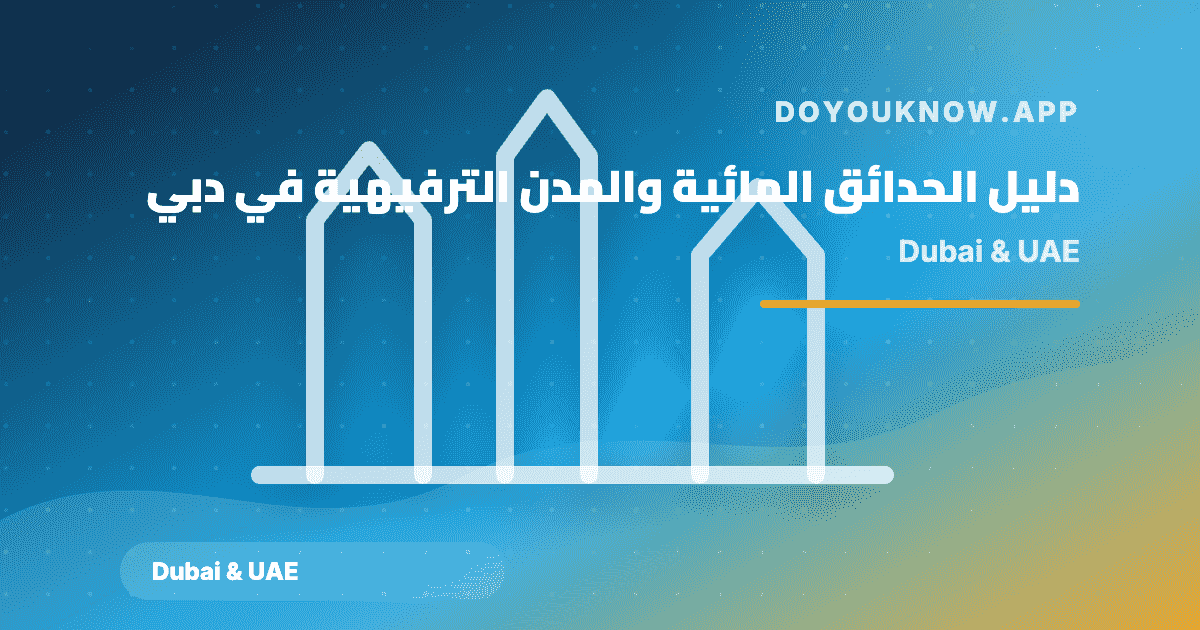
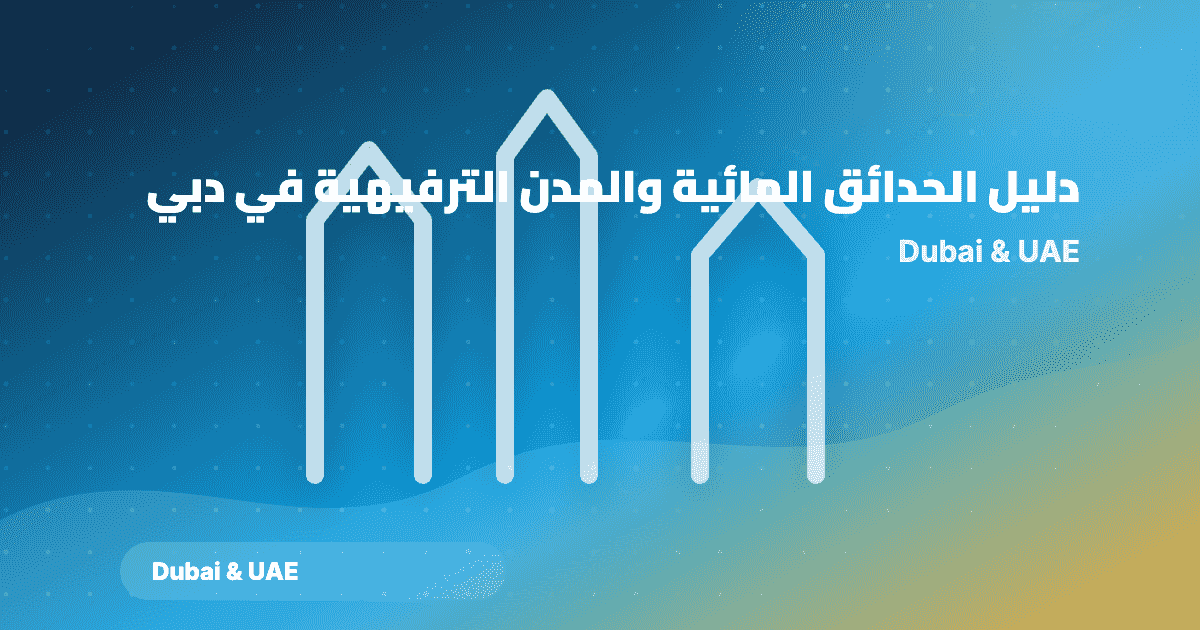
Rebuild Saudi guides batch 3 after T56 rebase
Regenerate category/search/service-worker artifacts after rebasing T54 onto the Technology Explained batch. npm run build and npm test pass at 343 HTML pages; T54 pages remain noindex, follow pending source-review release.

diff --git a/ar/article/qobool-guide.html b/ar/article/qobool-guide.html
@@ -15,13 +15,13 @@
 <meta property="og:description" content="دليل مبسط لاستخدام منصة قبول في السعودية، من إنشاء الحساب وترتيب الرغبات إلى متابعة الطلب والتحقق من أحدث التعليمات الرسمية.">
 <meta property="og:type" content="article">
 <meta property="og:url" content="https://doyouknow.app/ar/article/qobool-guide.html">
-<meta property="og:image" content="https://doyouknow.app/assets/images/articles/ar-qobool-guide.svg">
+<meta property="og:image" content="https://doyouknow.app/assets/images/articles/ar-qobool-guide.png">
 <meta property="og:locale" content="ar_SA">
 <meta property="og:site_name" content="doyouknow.app">
 <meta name="twitter:card" content="summary_large_image">
 <meta name="twitter:title" content="دليل قبول: التقديم ومتابعة القبول الجامعي">
 <meta name="twitter:description" content="دليل مبسط لاستخدام منصة قبول في السعودية، من إنشاء الحساب وترتيب الرغبات إلى متابعة الطلب والتحقق من أحدث التعليمات الرسمية.">
-<meta name="twitter:image" content="https://doyouknow.app/assets/images/articles/ar-qobool-guide.svg">
+<meta name="twitter:image" content="https://doyouknow.app/assets/images/articles/ar-qobool-guide.png">
 <title>دليل قبول: التقديم ومتابعة القبول الجامعي | doyouknow.app</title>
 <link rel="dns-prefetch" href="https://www.googletagmanager.com">
 <link rel="preload" href="/assets/js/site.js" as="script">
@@ -45,7 +45,7 @@
 <link rel="alternate" type="application/rss+xml" title="RSS" href="/ar/rss.xml">
 <link rel="alternate" type="application/json" title="JSON Feed" href="/ar/feed.json">
 
-<script type="application/ld+json">{"@context":"https://schema.org","@type":"Article","headline":"دليل قبول: التقديم ومتابعة القبول الجامعي","description":"دليل مبسط لاستخدام منصة قبول في السعودية، من إنشاء الحساب وترتيب الرغبات إلى متابعة الطلب والتحقق من أحدث التعليمات الرسمية.","author":{"@type":"Organization","name":"doyouknow.app Editorial Team","url":"https://doyouknow.app/ar/about.html","sameAs":["https://instagram.com/doyouknowapp","https://twitter.com/doyouknowapp"]},"publisher":{"@type":"Organization","name":"doyouknow.app","logo":{"@type":"ImageObject","url":"https://doyouknow.app/assets/images/logo.png"}},"datePublished":"2026-07-08","dateModified":"2026-07-08","mainEntityOfPage":{"@type":"WebPage","@id":"https://doyouknow.app/ar/article/qobool-guide.html"},"articleSection":"أدلة عملية في السعودية","keywords":"أبشر, أحدث, أفعل, أيضا, إنشاء, احصل, اختياره, استخدم, اشترك, الأسئلة, الأساسية, الأمر, البحث, البريدية, التأكيد, التخصص, التخصصات, التسجيل, التعليمات, الجامعات, الحساب, الحقائق, الخطوة, الدخول, الرسمية, الرغبات, السعودية, الشائعة, الشخصي, الشروط, الطلب, القبول, المحتويات, المذهلة, المزيد, المشاكل, الملف, الناجح, بخطوة, بدون, تأكيد, تخصصا, تستخدم, تسجيل, تعلن, تغيير, تفعل, تفعيل, تقديم, جدول, جديد, جميع, حساب, خطوة, دليل, رفضت, فترة, قبول, كيف, لأول, لاستخدام, للتسجيل, للمدارس, ماذا, مبسط, متابعة, متى, مثل, مجانية, مرة, مصادر, مفيدة, منصة, نتائج, نشرتنا, نصائح, والتحقق, والجامعات, والنتائج, وتحديث, وترتيب, وحلولها, وروابط, ولي, يعجبك, يمكن, يمكنني","wordCount":2110,"articleBody":"كيف تستخدم منصة قبول؟ دليل خطوة بخطوة\nملاحظة تحريرية: تم التحقق من هذا الدليل باستخدام منصة قبول الجامعية (uap.sa) في 2026-07-08. مواعيد القبول والشروط تتغير كل عام، لذا تحقق دائماً من التعليمات الرسمية الحالية. مستوى الثقة: عالٍ.\nمنصة قبول هي البوابة الإلكترونية الموحدة التي تستخدمها وزارة التعليم ","inLanguage":"ar","image":{"@type":"ImageObject","url":"https://doyouknow.app/assets/images/articles/ar-qobool-guide.svg","width":1200,"height":675}}</script>
+<script type="application/ld+json">{"@context":"https://schema.org","@type":"Article","headline":"دليل قبول: التقديم ومتابعة القبول الجامعي","description":"دليل مبسط لاستخدام منصة قبول في السعودية، من إنشاء الحساب وترتيب الرغبات إلى متابعة الطلب والتحقق من أحدث التعليمات الرسمية.","author":{"@type":"Organization","name":"doyouknow.app Editorial Team","url":"https://doyouknow.app/ar/about.html","sameAs":["https://instagram.com/doyouknowapp","https://twitter.com/doyouknowapp"]},"publisher":{"@type":"Organization","name":"doyouknow.app","logo":{"@type":"ImageObject","url":"https://doyouknow.app/assets/images/logo.png"}},"datePublished":"2026-07-08","dateModified":"2026-07-08","mainEntityOfPage":{"@type":"WebPage","@id":"https://doyouknow.app/ar/article/qobool-guide.html"},"articleSection":"أدلة عملية في السعودية","keywords":"أبشر, أحدث, أفعل, أيضا, إنشاء, احصل, اختياره, استخدم, اشترك, الأسئلة, الأساسية, الأمر, البحث, البريدية, التأكيد, التخصص, التخصصات, التسجيل, التعليمات, الجامعات, الحساب, الحقائق, الخطوة, الدخول, الرسمية, الرغبات, السعودية, الشائعة, الشخصي, الشروط, الطلب, القبول, المحتويات, المذهلة, المزيد, المشاكل, الملف, الناجح, بخطوة, بدون, تأكيد, تخصصا, تستخدم, تسجيل, تعلن, تغيير, تفعل, تفعيل, تقديم, جدول, جديد, جميع, حساب, خطوة, دليل, رفضت, فترة, قبول, كيف, لأول, لاستخدام, للتسجيل, للمدارس, ماذا, مبسط, متابعة, متى, مثل, مجانية, مرة, مصادر, مفيدة, منصة, نتائج, نشرتنا, نصائح, والتحقق, والجامعات, والنتائج, وتحديث, وترتيب, وحلولها, وروابط, ولي, يعجبك, يمكن, يمكنني","wordCount":2110,"articleBody":"كيف تستخدم منصة قبول؟ دليل خطوة بخطوة\nملاحظة تحريرية: تم التحقق من هذا الدليل باستخدام منصة قبول الجامعية (uap.sa) في 2026-07-08. مواعيد القبول والشروط تتغير كل عام، لذا تحقق دائماً من التعليمات الرسمية الحالية. مستوى الثقة: عالٍ.\nمنصة قبول هي البوابة الإلكترونية الموحدة التي تستخدمها وزارة التعليم ","inLanguage":"ar","image":{"@type":"ImageObject","url":"https://doyouknow.app/assets/images/articles/ar-qobool-guide.png","width":1200,"height":630}}</script>
 </head>
 <body>
 <a href="#main-content" class="skip-link">انتقل إلى المحتوى</a>

diff --git a/ar/category/guides.html b/ar/category/guides.html
@@ -9,4 +9,4 @@
   gtag('js', new Date());
 
   gtag('config', 'G-6VQZY87LJB');
-</script><link rel="alternate" type="application/rss+xml" title="RSS" href="/ar/rss.xml"><link rel="alternate" type="application/json" title="JSON Feed" href="/ar/feed.json"></head><body><a href="#main-content" class="skip-link">انتقل إلى المحتوى</a><header class="site-header"><div class="header-inner"><a href="/ar/" class="logo" aria-label="doyouknow.app"><span class="logo-text">doyouknow<span class="accent">.app</span></span></a><nav class="main-nav" aria-label="التنقل الرئيسي"><ul class="nav-links"><li><a href="/ar/">الرئيسية</a></li><li><a href="/ar/">كل المقالات</a></li><li><a href="/en/">English</a></li></ul></nav></div></header><main id="main-content"><section class="content-section"><p class="category-badge">doyouknow.app</p><h1>أدلة عملية في السعودية</h1><p class="hero-subtitle" style="margin-inline:0">أدلة عربية مبسطة للخدمات والمنصات والإجراءات المهمة في السعودية مع إحالات إلى المصادر الرسمية.</p><div class="article-grid"><a href="/ar/article/absher-portal-guide.html" class="article-card reveal reveal-delay-1"><img class="card-image" src="/assets/images/articles/ar-absher-portal-guide.svg" alt="" width="800" height="450" loading="eager" fetchpriority="high" decoding="async"><div class="card-content"><span class="category-badge">أدلة عملية في السعودية</span><h2 class="card-title">كيف تستخدم منصة أبشر: دليل شامل للمقيمين</h2><p class="card-excerpt">دليل عملي لاستخدام منصة أبشر السعودية. التسجيل، تسجيل الدخول، أهم الخدمات، والمشاكل الشائعة وكيفية حلها.</p></div></a><a href="/ar/article/best-restaurants-riyadh.html" class="article-card reveal reveal-delay-2"><img class="card-image" src="/assets/images/articles/ar-best-restaurants-riyadh.svg" alt="" width="800" height="450" loading="eager" fetchpriority="high" decoding="async"><div class="card-content"><span class="category-badge">أدلة عملية في السعودية</span><h2 class="card-title">أفضل المطاعم في الرياض: دليلك الشامل لتجربة طعام لا تُنسى</h2><p class="card-excerpt">اكتشف أفضل المطاعم الرياض من الأكلات الشعبية إلى المطاعم الفاخرة. دليل شامل لأحسن مطاعم الرياض للزوار والمقيمين.</p></div></a><a href="/ar/article/dewa-setup-guide.html" class="article-card reveal reveal-delay-3"><img class="card-image" src="/assets/images/articles/ar-dewa-setup-guide.svg" alt="" width="800" height="450" loading="eager" fetchpriority="high" decoding="async"><div class="card-content"><span class="category-badge">أدلة عملية في السعودية</span><h2 class="card-title">تفعيل ديوا والفواتير عند الانتقال إلى منزل في دبي</h2><p class="card-excerpt">دليل تفعيل هيئة كهرباء ومياه دبي عند الانتقال: الوديعة، الفاتورة الخضراء، التعرفة، إيجاري، الفاتورة النهائية، وتخطيط المصروف الشهري.</p></div></a><a href="/ar/article/du-etisalat-sim-guide.html" class="article-card reveal reveal-delay-1"><img class="card-image" src="/assets/images/articles/ar-du-etisalat-sim-guide.svg" alt="" width="800" height="450" loading="lazy" decoding="async"><div class="card-content"><span class="category-badge">أدلة عملية في السعودية</span><h2 class="card-title">دو أم اتصالات: شرائح الهاتف وباقات الموبايل في الإمارات</h2><p class="card-excerpt">دليل للمقيمين والزوار حول شرائح الهاتف في الإمارات: دو واتصالات/e&amp;amp;، الدفع المسبق، eSIM، شرائح السياح، التسجيل، ومقارنة الباقات.</p></div></a><a href="/ar/article/dubai-traffic-fines-guide.html" class="article-card reveal reveal-delay-2"><img class="card-image" src="/assets/images/articles/ar-dubai-traffic-fines-guide.svg" alt="" width="800" height="450" loading="lazy" decoding="async"><div class="card-content"><span class="category-badge">أدلة عملية في السعودية</span><h2 class="card-title">مخالفات دبي المرورية: الاستعلام والدفع والنقاط السوداء</h2><p class="card-excerpt">دليل للمقيمين حول الاستعلام عن مخالفات دبي المرورية ودفعها عبر القنوات الرسمية وفهم النقاط السوداء والحجز وتجنب التكرار.</p></div></a><a href="/ar/article/emirates-id-guide.html" class="article-card reveal reveal-delay-3"><img class="card-image" src="/assets/images/articles/ar-emirates-id-guide.svg" alt="" width="800" height="450" loading="lazy" decoding="async"><div class="card-content"><span class="category-badge">أدلة عملية في السعودية</span><h2 class="card-title">هوية الإمارات: التقديم والتجديد وبدل الفاقد</h2><p class="card-excerpt">دليل عملي لهوية الإمارات يشرح التقديم عبر الهيئة، التجديد، بدل الفاقد، مراكز الطباعة، التسليم، وغرامات التأخير.</p></div></a><a href="/ar/article/open-bank-account-saudi.html" class="article-card reveal reveal-delay-1"><img class="card-image" src="/assets/images/articles/ar-open-bank-account-saudi.svg" alt="" width="800" height="450" loading="lazy" decoding="async"><div class="card-content"><span class="category-badge">أدلة عملية في السعودية</span><h2 class="card-title">كيف تفتح حساباً بنكياً في السعودية: دليل عملي خطوة بخطوة</h2><p class="card-excerpt">دليل عملي لفتح حساب بنكي في السعودية للمقيمين والأجانب. ما هي البنوك المتاحة، الوثائق المطلوبة، المدة، والأخطاء الشائعة.</p></div></a><a href="/ar/article/qiyas-guide.html" class="article-card reveal reveal-delay-2"><img class="card-image" src="/assets/images/articles/ar-qiyas-guide.svg" alt="" width="800" height="450" loading="lazy" decoding="async"><div class="card-content"><span class="category-badge">أدلة عملية في السعودية</span><h2 class="card-title">كيف تستخدم منصة قياس: دليل خطوة بخطوة للطلاب والمهنيين</h2><p class="card-excerpt">دليل عملي لاستخدام منصة قياس السعودية. التسجيل، أنواع الاختبارات، حجز المواعيد، التحضير، وتفسير النتائج.</p></div></a><a href="/ar/article/qobool-guide.html" class="article-card reveal reveal-delay-3"><img class="card-image" src="/assets/images/articles/ar-qobool-guide.svg" alt="" width="800" height="450" loading="lazy" decoding="async"><div class="card-content"><span class="category-badge">أدلة عملية في السعودية</span><h2 class="card-title">دليل قبول: التقديم ومتابعة القبول الجامعي</h2><p class="card-excerpt">دليل مبسط لاستخدام منصة قبول في السعودية، من إنشاء الحساب وترتيب الرغبات إلى متابعة الطلب والتحقق من أحدث التعليمات الرسمية.</p></div></a><a href="/ar/article/renting-apartment-dubai.html" class="article-card reveal reveal-delay-1"><img class="card-image" src="/assets/images/articles/ar-renting-apartment-dubai.svg" alt="" width="800" height="450" loading="lazy" decoding="async"><div class="card-content"><span class="category-badge">أدلة عملية في السعودية</span><h2 class="card-title">استئجار شقة في دبي: إيجاري وحاسبة الزيادة والشيكات</h2><p class="card-excerpt">دليل عملي لاستئجار شقة في دبي يشرح إيجاري، العقود، حاسبة الزيادة، الشيكات، الوديعة، الإخطارات، وإجراءات الانتقال.</p></div></a><a href="/ar/article/renting-apartment-riyadh.html" class="article-card reveal reveal-delay-2"><img class="card-image" src="/assets/images/articles/ar-renting-apartment-riyadh.svg" alt="" width="800" height="450" loading="lazy" decoding="async"><div class="card-content"><span class="category-badge">أدلة عملية في السعودية</span><h2 class="card-title">استئجار شقة في الرياض: العقود وإيجار والتكاليف</h2><p class="card-excerpt">دليل شامل للمستأجرين في الرياض: متوسط الإيجارات، الأحياء، عقود إيجار، الودائع، وحقوقك بموجب القانون السعودي.</p></div></a><a href="/ar/article/saudi-driving-license.html" class="article-card reveal reveal-delay-3"><img class="card-image" src="/assets/images/articles/ar-saudi-driving-license.svg" alt="" width="800" height="450" loading="lazy" decoding="async"><div class="card-content"><span class="category-badge">أدلة عملية في السعودية</span><h2 class="card-title">كيف تحصل على رخصة قيادة في السعودية: دليل شامل</h2><p class="card-excerpt">دليل خطوة بخطوة للحصول على رخصة قيادة في السعودية. القواعد الجديدة، رخص النساء، اختبار القيادة، التكلفة، والأخطاء الشائعة.</p></div></a><a href="/ar/article/saudi-e-visa-guide.html" class="article-card reveal reveal-delay-1"><img class="card-image" src="/assets/images/articles/ar-saudi-e-visa-guide.svg" alt="" width="800" height="450" loading="lazy" decoding="async"><div class="card-content"><span class="category-badge">أدلة عملية في السعودية</span><h2 class="card-title">دليل التأشيرة الإلكترونية السعودية: أنواعها والتقديم</h2><p class="card-excerpt">دليل كامل للتأشيرة الإلكترونية السعودية 2026: أنواع التأشيرات، شروط التقديم، الرسوم، مدة المعالجة، تأشيرة العمرة والأعمال، وكل ما يهم المسافر.</p></div></a><a href="/ar/article/saudi-family-visit-visa.html" class="article-card reveal reveal-delay-2"><img class="card-image" src="/assets/images/articles/ar-saudi-family-visit-visa.svg" alt="" width="800" height="450" loading="lazy" decoding="async"><div class="card-content"><span class="category-badge">أدلة عملية في السعودية</span><h2 class="card-title">تأشيرة زيارة العائلة في السعودية: التقديم والتمديد والقواعد</h2><p class="card-excerpt">كيف تتقدم لتأشيرة زيارة عائلة في السعودية، تمددها عبر أبشر، وتفهم القواعد المطبقة على الأباء والأزواج والأطفال.</p></div></a><a href="/ar/article/saudi-health-insurance.html" class="article-card reveal reveal-delay-3"><img class="card-image" src="/assets/images/articles/ar-saudi-health-insurance.svg" alt="" width="800" height="450" loading="lazy" decoding="async"><div class="card-content"><span class="category-badge">أدلة عملية في السعودية</span><h2 class="card-title">التأمين الصحي في السعودية: ما تحتاج معرفته</h2><p class="card-excerpt">دليل شامل للتأمين الصحي في السعودية. المتطلبات الإلزامية، أفضل الشركات، ما يشمله التغطية، وكيف تختار الباقة المناسبة.</p></div></a><a href="/ar/article/saudi-iqama-guide.html" class="article-card reveal reveal-delay-1"><img class="card-image" src="/assets/images/articles/ar-saudi-iqama-guide.svg" alt="" width="800" height="450" loading="lazy" decoding="async"><div class="card-content"><span class="category-badge">أدلة عملية في السعودية</span><h2 class="card-title">الإقامة في السعودية: التجديد والرسوم والتابعين</h2><p class="card-excerpt">دليل شامل حول الإقامة السعودية: كيفية استخراجها وتجديدها ودفع الرسوم وإضافة التابعين وحل المشكلات الشائعة عبر أبشر ومعقِّم.</p></div></a><a href="/ar/article/saudi-mobile-plans-guide.html" class="article-card reveal reveal-delay-2"><img class="card-image" src="/assets/images/articles/ar-saudi-mobile-plans-guide.svg" alt="" width="800" height="450" loading="lazy" decoding="async"><div class="card-content"><span class="category-badge">أدلة عملية في السعودية</span><h2 class="card-title">دليل باقات الجوال في السعودية: مقارنة المشغلين الأربعة</h2><p class="card-excerpt">قارن بين مشغلي الاتصالات في السعودية وباقات الدفع المسبق والآجل والبيانات وتغطية 5G وكيفية الحصول على شريحة كمقيم أو زائر.</p></div></a><a href="/ar/article/saudi-nafath-guide.html" class="article-card reveal reveal-delay-3"><img class="card-image" src="/assets/images/articles/ar-saudi-nafath-guide.svg" alt="" width="800" height="450" loading="lazy" decoding="async"><div class="card-content"><span class="category-badge">أدلة عملية في السعودية</span><h2 class="card-title">منصة نفاذ السعودية: التسجيل والدخول والوصول للخدمات</h2><p class="card-excerpt">دليل عملي حول نفاذ، المنصة الوطنية الموحدة للوصول في السعودية: كيفية التسجيل وتسجيل الدخول وربط الخدمات وحل المشكلات الشائعة.</p></div></a><a href="/ar/article/saudi-sadad-payments.html" class="article-card reveal reveal-delay-1"><img class="card-image" src="/assets/images/articles/ar-saudi-sadad-payments.svg" alt="" width="800" height="450" loading="lazy" decoding="async"><div class="card-content"><span class="category-badge">أدلة عملية في السعودية</span><h2 class="card-title">نظام سداد في السعودية: الفواتير والمخالفات وإعداد البنك</h2><p class="card-excerpt">تعرّف على كيفية استخدام سداد، النظام الوطني للمدفوعات في السعودية، لدفع الفواتير الحكومية والمخالفات المرورية والخدمات والفواتير الخاصة.</p></div></a><a href="/ar/article/uae-bank-account-types.html" class="article-card reveal reveal-delay-2"><img class="card-image" src="/assets/images/articles/ar-uae-bank-account-types.svg" alt="" width="800" height="450" loading="lazy" decoding="async"><div class="card-content"><span class="category-badge">أدلة عملية في السعودية</span><h2 class="card-title">الحسابات البنكية في الإمارات: الأنواع والمتطلبات والرسوم</h2><p class="card-excerpt">دليل عملي للحسابات البنكية في الإمارات: حسابات المقيمين وغير المقيمين، الراتب، التوفير، الرسوم، اعرف عميلك، وسياق المصرف المركزي.</p></div></a><a href="/ar/article/uae-driving-license-guide.html" class="article-card reveal reveal-delay-3"><img class="card-image" src="/assets/images/articles/ar-uae-driving-license-guide.svg" alt="" width="800" height="450" loading="lazy" decoding="async"><div class="card-content"><span class="category-badge">أدلة عملية في السعودية</span><h2 class="card-title">تحويل رخصة قيادة أجنبية إلى رخصة إماراتية</h2><p class="card-excerpt">دليل عملي لتحويل رخصة قيادة أجنبية إلى رخصة إماراتية: الدول المؤهلة، إجراءات هيئة الطرق والمواصلات، فحص النظر، المستندات، والتكاليف.</p></div></a><a href="/ar/article/uae-gratuity-calculator-guide.html" class="article-card reveal reveal-delay-1"><img class="card-image" src="/assets/images/articles/ar-uae-gratuity-calculator-guide.svg" alt="" width="800" height="450" loading="lazy" decoding="async"><div class="card-content"><span class="category-badge">أدلة عملية في السعودية</span><h2 class="card-title">مكافأة نهاية الخدمة في الإمارات: كيف تُحسب؟</h2><p class="card-excerpt">دليل عملي يشرح مكافأة نهاية الخدمة في الإمارات: الراتب الأساسي، مدة الخدمة، الاستقالة، الإنهاء، الخصومات، ومراجعة التسوية النهائية.</p></div></a><a href="/ar/article/uae-health-insurance-guide.html" class="article-card reveal reveal-delay-2"><img class="card-image" src="/assets/images/articles/ar-uae-health-insurance-guide.svg" alt="" width="800" height="450" loading="lazy" decoding="async"><div class="card-content"><span class="category-badge">أدلة عملية في السعودية</span><h2 class="card-title">التأمين الصحي الإلزامي في الإمارات: ما الذي تحتاج معرفته؟</h2><p class="card-excerpt">دليل عملي للتأمين الصحي في الإمارات مع توضيح اختلاف دبي وهيئة الصحة بدبي عن أبوظبي ودائرة الصحة، وتغطية صاحب العمل والتابعين والتأشيرات.</p></div></a><a href="/ar/article/uae-labor-law-basics.html" class="article-card reveal reveal-delay-3"><img class="card-image" src="/assets/images/articles/ar-uae-labor-law-basics.svg" alt="" width="800" height="450" loading="lazy" decoding="async"><div class="card-content"><span class="category-badge">أدلة عملية في السعودية</span><h2 class="card-title">قانون العمل في الإمارات: العقود والإجازات ونهاية الخدمة</h2><p class="card-excerpt">دليل عملي قيد المراجعة يشرح أساسيات قانون العمل في الإمارات للقطاع الخاص: العقود، الإجازات، الأجور، النزاعات، ونهاية الخدمة.</p></div></a><a href="/ar/article/uae-residence-visa-types.html" class="article-card reveal reveal-delay-1"><img class="card-image" src="/assets/images/articles/ar-uae-residence-visa-types.svg" alt="" width="800" height="450" loading="lazy" decoding="async"><div class="card-content"><span class="category-badge">أدلة عملية في السعودية</span><h2 class="card-title">إقامات الإمارات: العمل والخضراء والذهبية والعائلية</h2><p class="card-excerpt">دليل مقارن لأنواع الإقامة في الإمارات: العمل، الإقامة الخضراء، الذهبية، العائلية، الطلابية، والتقاعدية.</p></div></a><a href="/ar/article/uae-school-year-guide.html" class="article-card reveal reveal-delay-2"><img class="card-image" src="/assets/images/articles/ar-uae-school-year-guide.svg" alt="" width="800" height="450" loading="lazy" decoding="async"><div class="card-content"><span class="category-badge">أدلة عملية في السعودية</span><h2 class="card-title">العام الدراسي في الإمارات 2026-27: الفصول والرسوم والقبول</h2><p class="card-excerpt">دليل للأهالي عن العام الدراسي في الإمارات 2026-27 يشمل التقويم، KHDA وADEK، الرسوم، القبول، الوثائق، والتخطيط العملي.</p></div></a></div></section></main><footer class="site-footer"><div class="footer-bottom"><span>© 2026 doyouknow.app</span><a href="/ar/">الرئيسية</a> · <a href="/ar/work-with-us.html">اعمل معنا</a></div></footer><script src="/assets/js/site.js" defer></script></body></html>
+</script><link rel="alternate" type="application/rss+xml" title="RSS" href="/ar/rss.xml"><link rel="alternate" type="application/json" title="JSON Feed" href="/ar/feed.json"></head><body><a href="#main-content" class="skip-link">انتقل إلى المحتوى</a><header class="site-header"><div class="header-inner"><a href="/ar/" class="logo" aria-label="doyouknow.app"><span class="logo-text">doyouknow<span class="accent">.app</span></span></a><nav class="main-nav" aria-label="التنقل الرئيسي"><ul class="nav-links"><li><a href="/ar/">الرئيسية</a></li><li><a href="/ar/">كل المقالات</a></li><li><a href="/en/">English</a></li></ul></nav></div></header><main id="main-content"><section class="content-section"><p class="category-badge">doyouknow.app</p><h1>أدلة عملية في السعودية</h1><p class="hero-subtitle" style="margin-inline:0">أدلة عربية مبسطة للخدمات والمنصات والإجراءات المهمة في السعودية مع إحالات إلى المصادر الرسمية.</p><div class="article-grid"><a href="/ar/article/absher-portal-guide.html" class="article-card reveal reveal-delay-1"><img class="card-image" src="/assets/images/articles/ar-absher-portal-guide.svg" alt="" width="800" height="450" loading="eager" fetchpriority="high" decoding="async"><div class="card-content"><span class="category-badge">أدلة عملية في السعودية</span><h2 class="card-title">كيف تستخدم منصة أبشر: دليل شامل للمقيمين</h2><p class="card-excerpt">دليل عملي لاستخدام منصة أبشر السعودية. التسجيل، تسجيل الدخول، أهم الخدمات، والمشاكل الشائعة وكيفية حلها.</p></div></a><a href="/ar/article/best-restaurants-riyadh.html" class="article-card reveal reveal-delay-2"><img class="card-image" src="/assets/images/articles/ar-best-restaurants-riyadh.svg" alt="" width="800" height="450" loading="eager" fetchpriority="high" decoding="async"><div class="card-content"><span class="category-badge">أدلة عملية في السعودية</span><h2 class="card-title">أفضل المطاعم في الرياض: دليلك الشامل لتجربة طعام لا تُنسى</h2><p class="card-excerpt">اكتشف أفضل المطاعم الرياض من الأكلات الشعبية إلى المطاعم الفاخرة. دليل شامل لأحسن مطاعم الرياض للزوار والمقيمين.</p></div></a><a href="/ar/article/dewa-setup-guide.html" class="article-card reveal reveal-delay-3"><img class="card-image" src="/assets/images/articles/ar-dewa-setup-guide.svg" alt="" width="800" height="450" loading="eager" fetchpriority="high" decoding="async"><div class="card-content"><span class="category-badge">أدلة عملية في السعودية</span><h2 class="card-title">تفعيل ديوا والفواتير عند الانتقال إلى منزل في دبي</h2><p class="card-excerpt">دليل تفعيل هيئة كهرباء ومياه دبي عند الانتقال: الوديعة، الفاتورة الخضراء، التعرفة، إيجاري، الفاتورة النهائية، وتخطيط المصروف الشهري.</p></div></a><a href="/ar/article/du-etisalat-sim-guide.html" class="article-card reveal reveal-delay-1"><img class="card-image" src="/assets/images/articles/ar-du-etisalat-sim-guide.svg" alt="" width="800" height="450" loading="lazy" decoding="async"><div class="card-content"><span class="category-badge">أدلة عملية في السعودية</span><h2 class="card-title">دو أم اتصالات: شرائح الهاتف وباقات الموبايل في الإمارات</h2><p class="card-excerpt">دليل للمقيمين والزوار حول شرائح الهاتف في الإمارات: دو واتصالات/e&amp;amp;، الدفع المسبق، eSIM، شرائح السياح، التسجيل، ومقارنة الباقات.</p></div></a><a href="/ar/article/dubai-traffic-fines-guide.html" class="article-card reveal reveal-delay-2"><img class="card-image" src="/assets/images/articles/ar-dubai-traffic-fines-guide.svg" alt="" width="800" height="450" loading="lazy" decoding="async"><div class="card-content"><span class="category-badge">أدلة عملية في السعودية</span><h2 class="card-title">مخالفات دبي المرورية: الاستعلام والدفع والنقاط السوداء</h2><p class="card-excerpt">دليل للمقيمين حول الاستعلام عن مخالفات دبي المرورية ودفعها عبر القنوات الرسمية وفهم النقاط السوداء والحجز وتجنب التكرار.</p></div></a><a href="/ar/article/emirates-id-guide.html" class="article-card reveal reveal-delay-3"><img class="card-image" src="/assets/images/articles/ar-emirates-id-guide.svg" alt="" width="800" height="450" loading="lazy" decoding="async"><div class="card-content"><span class="category-badge">أدلة عملية في السعودية</span><h2 class="card-title">هوية الإمارات: التقديم والتجديد وبدل الفاقد</h2><p class="card-excerpt">دليل عملي لهوية الإمارات يشرح التقديم عبر الهيئة، التجديد، بدل الفاقد، مراكز الطباعة، التسليم، وغرامات التأخير.</p></div></a><a href="/ar/article/open-bank-account-saudi.html" class="article-card reveal reveal-delay-1"><img class="card-image" src="/assets/images/articles/ar-open-bank-account-saudi.svg" alt="" width="800" height="450" loading="lazy" decoding="async"><div class="card-content"><span class="category-badge">أدلة عملية في السعودية</span><h2 class="card-title">كيف تفتح حساباً بنكياً في السعودية: دليل عملي خطوة بخطوة</h2><p class="card-excerpt">دليل عملي لفتح حساب بنكي في السعودية للمقيمين والأجانب. ما هي البنوك المتاحة، الوثائق المطلوبة، المدة، والأخطاء الشائعة.</p></div></a><a href="/ar/article/qiyas-guide.html" class="article-card reveal reveal-delay-2"><img class="card-image" src="/assets/images/articles/ar-qiyas-guide.svg" alt="" width="800" height="450" loading="lazy" decoding="async"><div class="card-content"><span class="category-badge">أدلة عملية في السعودية</span><h2 class="card-title">كيف تستخدم منصة قياس: دليل خطوة بخطوة للطلاب والمهنيين</h2><p class="card-excerpt">دليل عملي لاستخدام منصة قياس السعودية. التسجيل، أنواع الاختبارات، حجز المواعيد، التحضير، وتفسير النتائج.</p></div></a><a href="/ar/article/qobool-guide.html" class="article-card reveal reveal-delay-3"><img class="card-image" src="/assets/images/articles/ar-qobool-guide.svg" alt="" width="800" height="450" loading="lazy" decoding="async"><div class="card-content"><span class="category-badge">أدلة عملية في السعودية</span><h2 class="card-title">دليل قبول: التقديم ومتابعة القبول الجامعي</h2><p class="card-excerpt">دليل مبسط لاستخدام منصة قبول في السعودية، من إنشاء الحساب وترتيب الرغبات إلى متابعة الطلب والتحقق من أحدث التعليمات الرسمية.</p></div></a><a href="/ar/article/renting-apartment-dubai.html" class="article-card reveal reveal-delay-1"><img class="card-image" src="/assets/images/articles/ar-renting-apartment-dubai.svg" alt="" width="800" height="450" loading="lazy" decoding="async"><div class="card-content"><span class="category-badge">أدلة عملية في السعودية</span><h2 class="card-title">استئجار شقة في دبي: إيجاري وحاسبة الزيادة والشيكات</h2><p class="card-excerpt">دليل عملي لاستئجار شقة في دبي يشرح إيجاري، العقود، حاسبة الزيادة، الشيكات، الوديعة، الإخطارات، وإجراءات الانتقال.</p></div></a><a href="/ar/article/renting-apartment-riyadh.html" class="article-card reveal reveal-delay-2"><img class="card-image" src="/assets/images/articles/ar-renting-apartment-riyadh.svg" alt="" width="800" height="450" loading="lazy" decoding="async"><div class="card-content"><span class="category-badge">أدلة عملية في السعودية</span><h2 class="card-title">استئجار شقة في الرياض: العقود وإيجار والتكاليف</h2><p class="card-excerpt">دليل شامل للمستأجرين في الرياض: متوسط الإيجارات، الأحياء، عقود إيجار، الودائع، وحقوقك بموجب القانون السعودي.</p></div></a><a href="/ar/article/saudi-bank-account-types.html" class="article-card reveal reveal-delay-3"><img class="card-image" src="/assets/images/articles/ar-saudi-bank-account-types.svg" alt="" width="800" height="450" loading="lazy" decoding="async"><div class="card-content"><span class="category-badge">أدلة عملية في السعودية</span><h2 class="card-title">الحسابات البنكية في السعودية: الأنواع والمتطلبات والرسوم</h2><p class="card-excerpt">دليل عملي عن الحسابات البنكية في السعودية: الحسابات الجارية، وحسابات التوفير، وحسابات الرواتب، متطلبات المقيمين وغير المقيمين، قواعد البنك المركزي، الرسوم، والبنوك الرقمية.</p></div></a><a href="/ar/article/saudi-customs-import-guide.html" class="article-card reveal reveal-delay-1"><img class="card-image" src="/assets/images/articles/ar-saudi-customs-import-guide.svg" alt="" width="800" height="450" loading="lazy" decoding="async"><div class="card-content"><span class="category-badge">أدلة عملية في السعودية</span><h2 class="card-title">إدخال البضائع إلى السعودية: قواعد الجمارك للمقيمين</h2><p class="card-excerpt">دليل عملي لقواعد الجمارك السعودية للمقيمين: الشحنات الشخصية، الحدود المعفاة من الرسوم، الممنوعات، التصاريح الجمركية، شحنات البريد السريع، والعقوبات.</p></div></a><a href="/ar/article/saudi-driving-license.html" class="article-card reveal reveal-delay-2"><img class="card-image" src="/assets/images/articles/ar-saudi-driving-license.svg" alt="" width="800" height="450" loading="lazy" decoding="async"><div class="card-content"><span class="category-badge">أدلة عملية في السعودية</span><h2 class="card-title">كيف تحصل على رخصة قيادة في السعودية: دليل شامل</h2><p class="card-excerpt">دليل خطوة بخطوة للحصول على رخصة قيادة في السعودية. القواعد الجديدة، رخص النساء، اختبار القيادة، التكلفة، والأخطاء الشائعة.</p></div></a><a href="/ar/article/saudi-driving-license-transfer.html" class="article-card reveal reveal-delay-3"><img class="card-image" src="/assets/images/articles/ar-saudi-driving-license-transfer.svg" alt="" width="800" height="450" loading="lazy" decoding="async"><div class="card-content"><span class="category-badge">أدلة عملية في السعودية</span><h2 class="card-title">تحويل رخصة القيادة الأجنبية إلى رخصة سعودية</h2><p class="card-excerpt">دليل خطوة بخطوة لتحويل رخصة القيادة الأجنبية إلى رخصة سعودية: الدول المؤهلة، المستندات، مدرسة دلّة، الاختبار النظري والعملي، الرسوم، المدة، والأخطاء الشائعة.</p></div></a><a href="/ar/article/saudi-e-visa-guide.html" class="article-card reveal reveal-delay-1"><img class="card-image" src="/assets/images/articles/ar-saudi-e-visa-guide.svg" alt="" width="800" height="450" loading="lazy" decoding="async"><div class="card-content"><span class="category-badge">أدلة عملية في السعودية</span><h2 class="card-title">دليل التأشيرة الإلكترونية السعودية: أنواعها والتقديم</h2><p class="card-excerpt">دليل كامل للتأشيرة الإلكترونية السعودية 2026: أنواع التأشيرات، شروط التقديم، الرسوم، مدة المعالجة، تأشيرة العمرة والأعمال، وكل ما يهم المسافر.</p></div></a><a href="/ar/article/saudi-family-visit-visa.html" class="article-card reveal reveal-delay-2"><img class="card-image" src="/assets/images/articles/ar-saudi-family-visit-visa.svg" alt="" width="800" height="450" loading="lazy" decoding="async"><div class="card-content"><span class="category-badge">أدلة عملية في السعودية</span><h2 class="card-title">تأشيرة زيارة العائلة في السعودية: التقديم والتمديد والقواعد</h2><p class="card-excerpt">كيف تتقدم لتأشيرة زيارة عائلة في السعودية، تمددها عبر أبشر، وتفهم القواعد المطبقة على الأباء والأزواج والأطفال.</p></div></a><a href="/ar/article/saudi-gosi-guide.html" class="article-card reveal reveal-delay-3"><img class="card-image" src="/assets/images/articles/ar-saudi-gosi-guide.svg" alt="" width="800" height="450" loading="lazy" decoding="async"><div class="card-content"><span class="category-badge">أدلة عملية في السعودية</span><h2 class="card-title">التأمينات الاجتماعية في السعودية: المساهمات والمنافع والتسجيل</h2><p class="card-excerpt">دليل عملي عن التأمينات الاجتماعية في السعودية: من يجب التسجيل، نسب المساهمة للموظف والشركة، المنافع، خطوات التسجيل، الاستعلام عن المساهمات، والمشكلات الشائعة.</p></div></a><a href="/ar/article/saudi-health-insurance.html" class="article-card reveal reveal-delay-1"><img class="card-image" src="/assets/images/articles/ar-saudi-health-insurance.svg" alt="" width="800" height="450" loading="lazy" decoding="async"><div class="card-content"><span class="category-badge">أدلة عملية في السعودية</span><h2 class="card-title">التأمين الصحي في السعودية: ما تحتاج معرفته</h2><p class="card-excerpt">دليل شامل للتأمين الصحي في السعودية. المتطلبات الإلزامية، أفضل الشركات، ما يشمله التغطية، وكيف تختار الباقة المناسبة.</p></div></a><a href="/ar/article/saudi-iqama-guide.html" class="article-card reveal reveal-delay-2"><img class="card-image" src="/assets/images/articles/ar-saudi-iqama-guide.svg" alt="" width="800" height="450" loading="lazy" decoding="async"><div class="card-content"><span class="category-badge">أدلة عملية في السعودية</span><h2 class="card-title">الإقامة في السعودية: التجديد والرسوم والتابعين</h2><p class="card-excerpt">دليل شامل حول الإقامة السعودية: كيفية استخراجها وتجديدها ودفع الرسوم وإضافة التابعين وحل المشكلات الشائعة عبر أبشر ومعقِّم.</p></div></a><a href="/ar/article/saudi-labor-law-basics.html" class="article-card reveal reveal-delay-3"><img class="card-image" src="/assets/images/articles/ar-saudi-labor-law-basics.svg" alt="" width="800" height="450" loading="lazy" decoding="async"><div class="card-content"><span class="category-badge">أدلة عملية في السعودية</span><h2 class="card-title">أساسيات نظام العمل السعودي: العقود والإجازة ونهاية الخدمة</h2><p class="card-excerpt">دليل عملي لنظام العمل السعودي: عقود العمل، فترة التجربة، ساعات العمل، الإجازة السنوية والمرضية، مكافأة نهاية الخدمة، إنهاء الخدمة، والنزاعات.</p></div></a><a href="/ar/article/saudi-mobile-plans-guide.html" class="article-card reveal reveal-delay-1"><img class="card-image" src="/assets/images/articles/ar-saudi-mobile-plans-guide.svg" alt="" width="800" height="450" loading="lazy" decoding="async"><div class="card-content"><span class="category-badge">أدلة عملية في السعودية</span><h2 class="card-title">دليل باقات الجوال في السعودية: مقارنة المشغلين الأربعة</h2><p class="card-excerpt">قارن بين مشغلي الاتصالات في السعودية وباقات الدفع المسبق والآجل والبيانات وتغطية 5G وكيفية الحصول على شريحة كمقيم أو زائر.</p></div></a><a href="/ar/article/saudi-nafath-guide.html" class="article-card reveal reveal-delay-2"><img class="card-image" src="/assets/images/articles/ar-saudi-nafath-guide.svg" alt="" width="800" height="450" loading="lazy" decoding="async"><div class="card-content"><span class="category-badge">أدلة عملية في السعودية</span><h2 class="card-title">منصة نفاذ السعودية: التسجيل والدخول والوصول للخدمات</h2><p class="card-excerpt">دليل عملي حول نفاذ، المنصة الوطنية الموحدة للوصول في السعودية: كيفية التسجيل وتسجيل الدخول وربط الخدمات وحل المشكلات الشائعة.</p></div></a><a href="/ar/article/saudi-sadad-payments.html" class="article-card reveal reveal-delay-3"><img class="card-image" src="/assets/images/articles/ar-saudi-sadad-payments.svg" alt="" width="800" height="450" loading="lazy" decoding="async"><div class="card-content"><span class="category-badge">أدلة عملية في السعودية</span><h2 class="card-title">نظام سداد في السعودية: الفواتير والمخالفات وإعداد البنك</h2><p class="card-excerpt">تعرّف على كيفية استخدام سداد، النظام الوطني للمدفوعات في السعودية، لدفع الفواتير الحكومية والمخالفات المرورية والخدمات والفواتير الخاصة.</p></div></a><a href="/ar/article/tawakkalna-guide.html" class="article-card reveal reveal-delay-1"><img class="card-image" src="/assets/images/articles/ar-tawakkalna-guide.svg" alt="" width="800" height="450" loading="lazy" decoding="async"><div class="card-content"><span class="category-badge">أدلة عملية في السعودية</span><h2 class="card-title">تطبيق توكلنا: ماذا يفعل ولماذا يحتاجه المقيمون</h2><p class="card-excerpt">دليل عملي لتطبيق توكلنا السعودي: التسجيل، ربط الهوية والصحة، المواعيد، التصاريح، السفر، الخصوصية، وحل المشكلات الشائعة.</p></div></a><a href="/ar/article/uae-bank-account-types.html" class="article-card reveal reveal-delay-2"><img class="card-image" src="/assets/images/articles/ar-uae-bank-account-types.svg" alt="" width="800" height="450" loading="lazy" decoding="async"><div class="card-content"><span class="category-badge">أدلة عملية في السعودية</span><h2 class="card-title">الحسابات البنكية في الإمارات: الأنواع والمتطلبات والرسوم</h2><p class="card-excerpt">دليل عملي للحسابات البنكية في الإمارات: حسابات المقيمين وغير المقيمين، الراتب، التوفير، الرسوم، اعرف عميلك، وسياق المصرف المركزي.</p></div></a><a href="/ar/article/uae-driving-license-guide.html" class="article-card reveal reveal-delay-3"><img class="card-image" src="/assets/images/articles/ar-uae-driving-license-guide.svg" alt="" width="800" height="450" loading="lazy" decoding="async"><div class="card-content"><span class="category-badge">أدلة عملية في السعودية</span><h2 class="card-title">تحويل رخصة قيادة أجنبية إلى رخصة إماراتية</h2><p class="card-excerpt">دليل عملي لتحويل رخصة قيادة أجنبية إلى رخصة إماراتية: الدول المؤهلة، إجراءات هيئة الطرق والمواصلات، فحص النظر، المستندات، والتكاليف.</p></div></a><a href="/ar/article/uae-gratuity-calculator-guide.html" class="article-card reveal reveal-delay-1"><img class="card-image" src="/assets/images/articles/ar-uae-gratuity-calculator-guide.svg" alt="" width="800" height="450" loading="lazy" decoding="async"><div class="card-content"><span class="category-badge">أدلة عملية في السعودية</span><h2 class="card-title">مكافأة نهاية الخدمة في الإمارات: كيف تُحسب؟</h2><p class="card-excerpt">دليل عملي يشرح مكافأة نهاية الخدمة في الإمارات: الراتب الأساسي، مدة الخدمة، الاستقالة، الإنهاء، الخصومات، ومراجعة التسوية النهائية.</p></div></a><a href="/ar/article/uae-health-insurance-guide.html" class="article-card reveal reveal-delay-2"><img class="card-image" src="/assets/images/articles/ar-uae-health-insurance-guide.svg" alt="" width="800" height="450" loading="lazy" decoding="async"><div class="card-content"><span class="category-badge">أدلة عملية في السعودية</span><h2 class="card-title">التأمين الصحي الإلزامي في الإمارات: ما الذي تحتاج معرفته؟</h2><p class="card-excerpt">دليل عملي للتأمين الصحي في الإمارات مع توضيح اختلاف دبي وهيئة الصحة بدبي عن أبوظبي ودائرة الصحة، وتغطية صاحب العمل والتابعين والتأشيرات.</p></div></a><a href="/ar/article/uae-labor-law-basics.html" class="article-card reveal reveal-delay-3"><img class="card-image" src="/assets/images/articles/ar-uae-labor-law-basics.svg" alt="" width="800" height="450" loading="lazy" decoding="async"><div class="card-content"><span class="category-badge">أدلة عملية في السعودية</span><h2 class="card-title">قانون العمل في الإمارات: العقود والإجازات ونهاية الخدمة</h2><p class="card-excerpt">دليل عملي قيد المراجعة يشرح أساسيات قانون العمل في الإمارات للقطاع الخاص: العقود، الإجازات، الأجور، النزاعات، ونهاية الخدمة.</p></div></a><a href="/ar/article/uae-residence-visa-types.html" class="article-card reveal reveal-delay-1"><img class="card-image" src="/assets/images/articles/ar-uae-residence-visa-types.svg" alt="" width="800" height="450" loading="lazy" decoding="async"><div class="card-content"><span class="category-badge">أدلة عملية في السعودية</span><h2 class="card-title">إقامات الإمارات: العمل والخضراء والذهبية والعائلية</h2><p class="card-excerpt">دليل مقارن لأنواع الإقامة في الإمارات: العمل، الإقامة الخضراء، الذهبية، العائلية، الطلابية، والتقاعدية.</p></div></a><a href="/ar/article/uae-school-year-guide.html" class="article-card reveal reveal-delay-2"><img class="card-image" src="/assets/images/articles/ar-uae-school-year-guide.svg" alt="" width="800" height="450" loading="lazy" decoding="async"><div class="card-content"><span class="category-badge">أدلة عملية في السعودية</span><h2 class="card-title">العام الدراسي في الإمارات 2026-27: الفصول والرسوم والقبول</h2><p class="card-excerpt">دليل للأهالي عن العام الدراسي في الإمارات 2026-27 يشمل التقويم، KHDA وADEK، الرسوم، القبول، الوثائق، والتخطيط العملي.</p></div></a></div></section></main><footer class="site-footer"><div class="footer-bottom"><span>© 2026 doyouknow.app</span><a href="/ar/">الرئيسية</a> · <a href="/ar/work-with-us.html">اعمل معنا</a></div></footer><script src="/assets/js/site.js" defer></script></body></html>